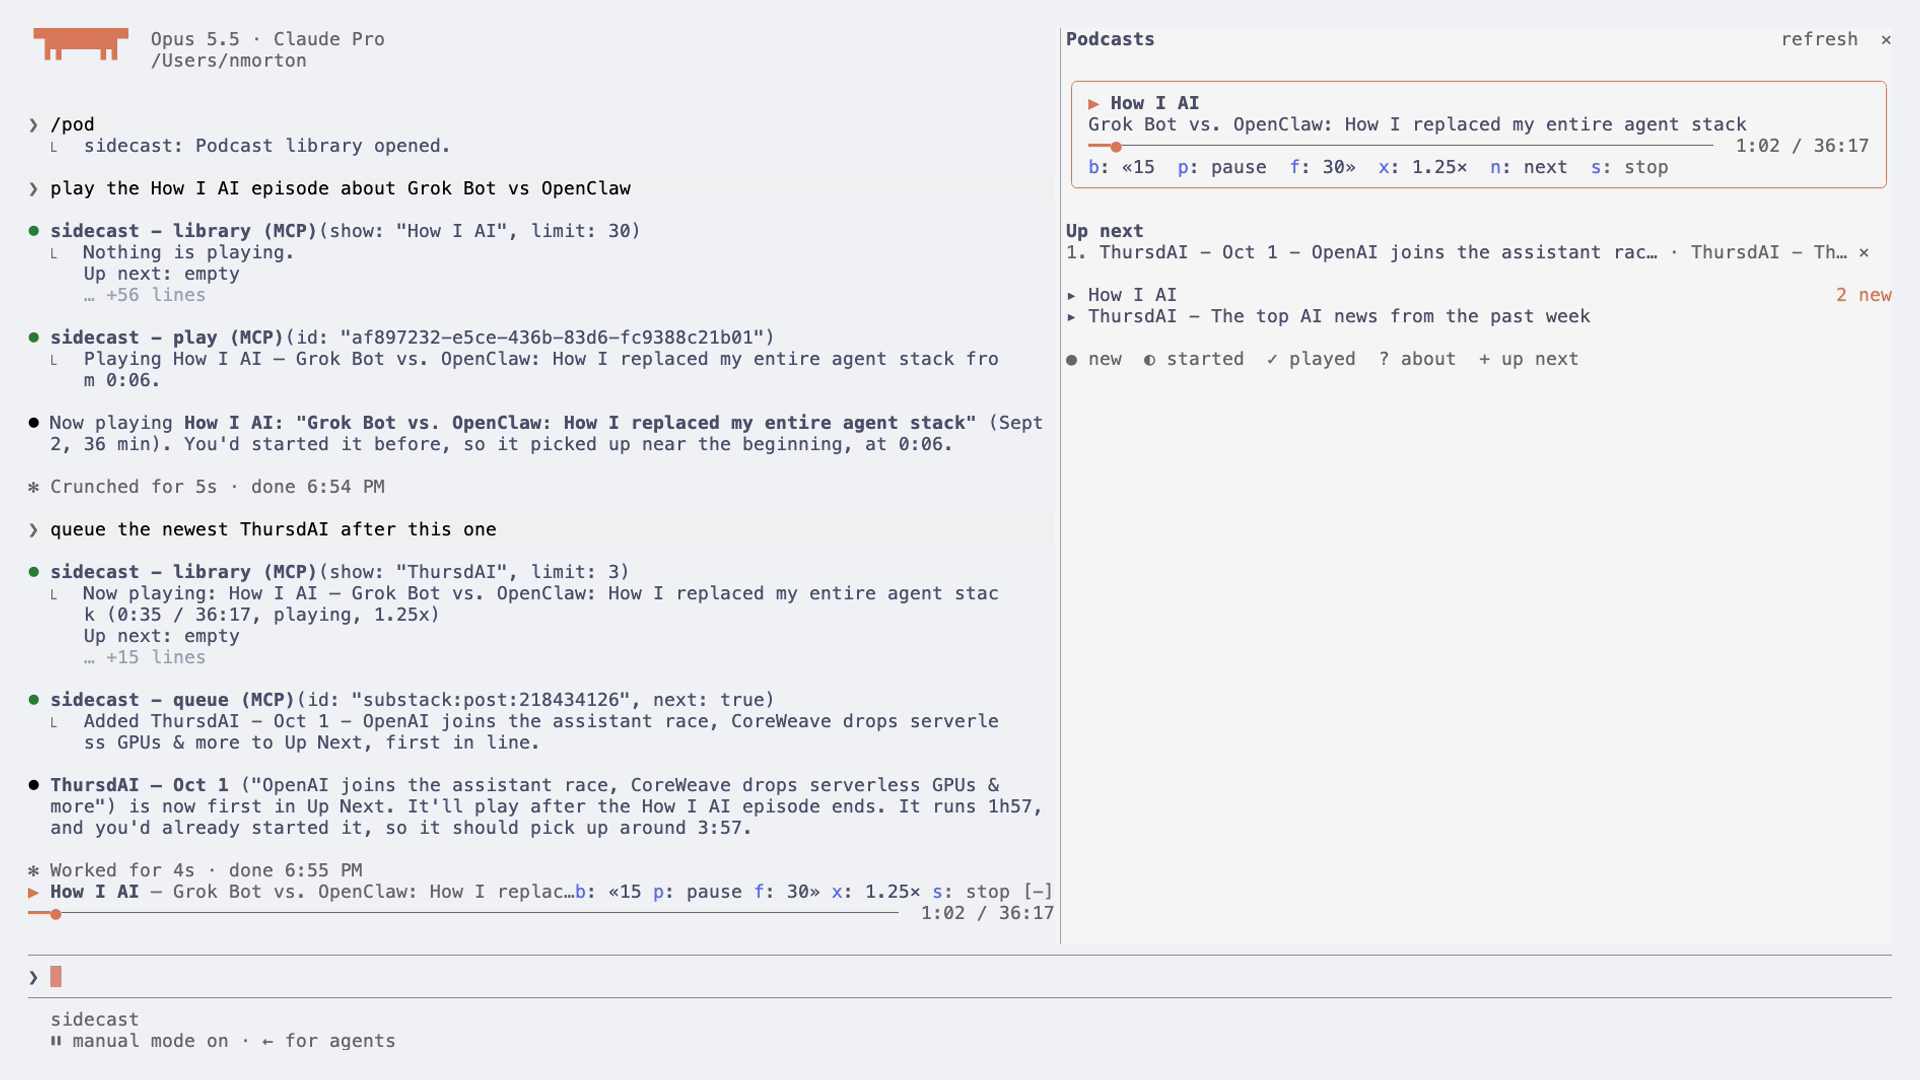
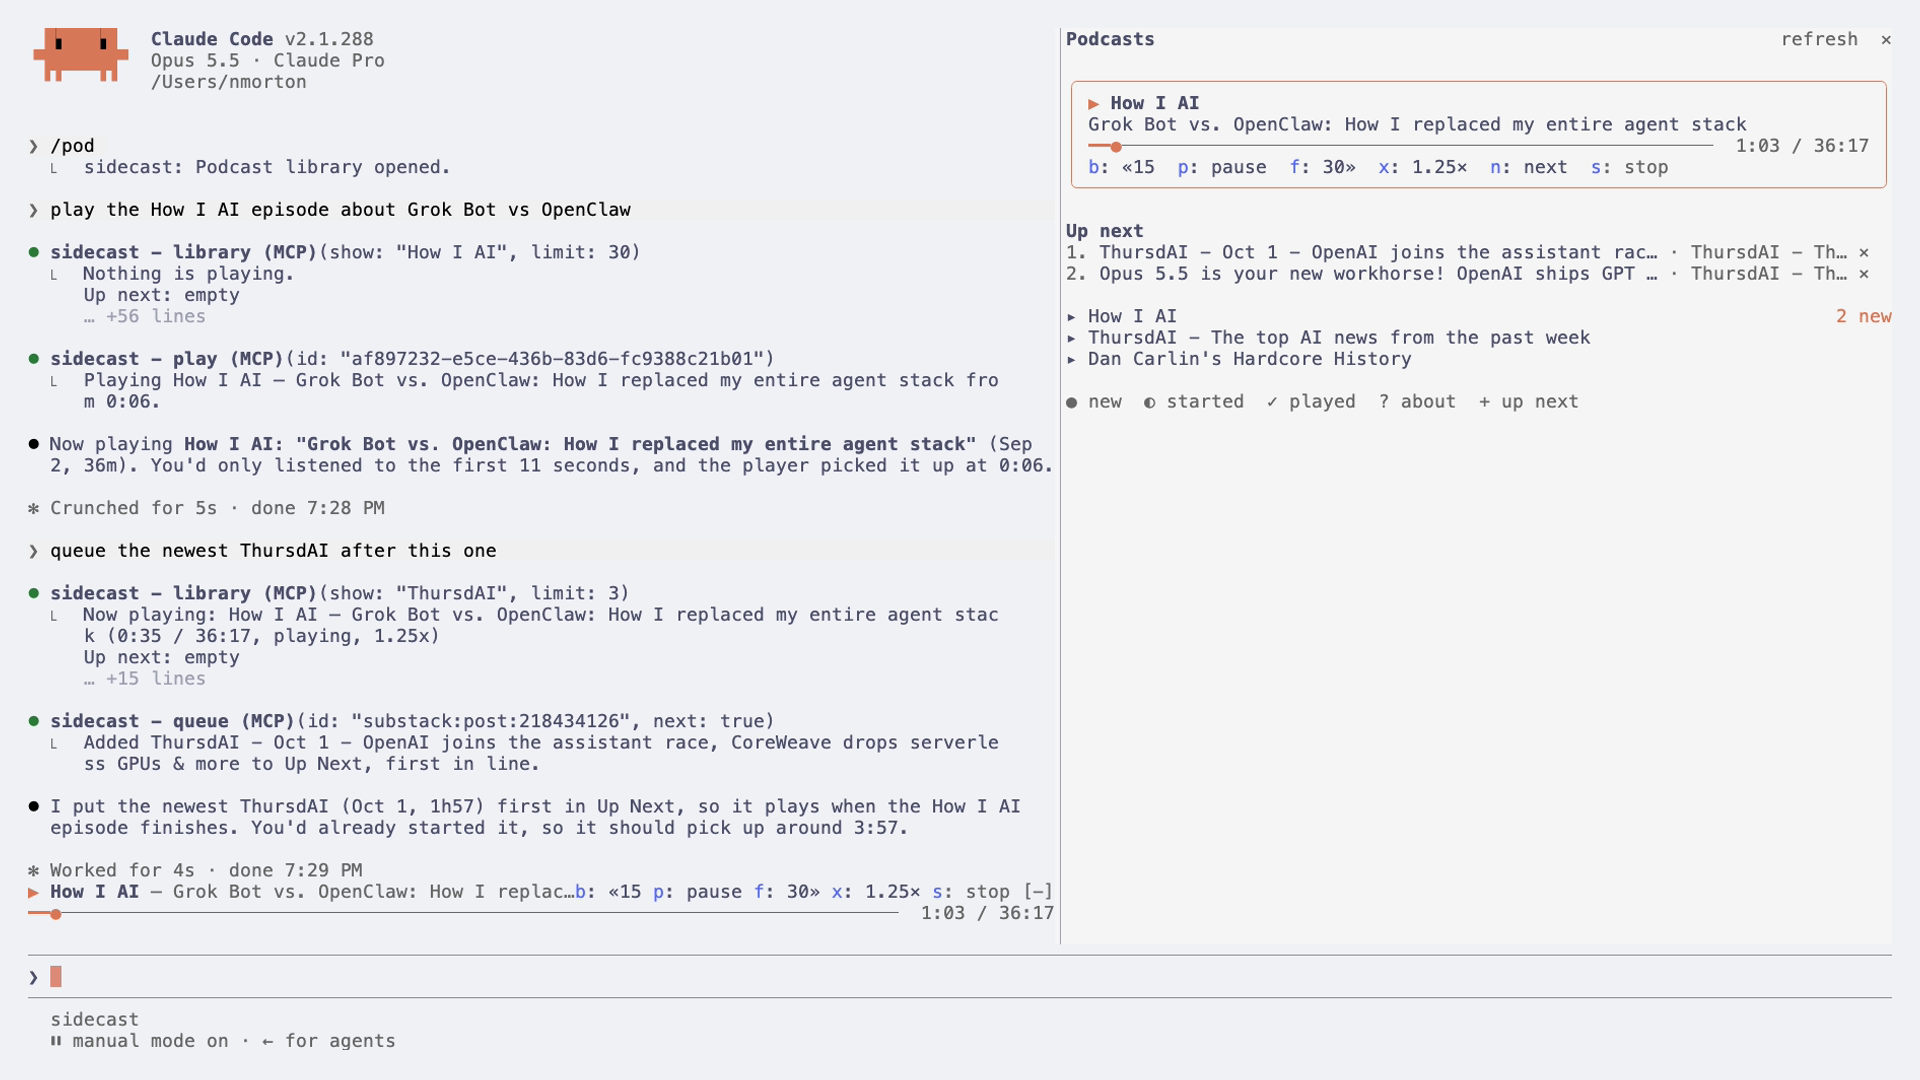
Add /sidecast as a second name for /pod; screenshots with three shows
Someone who installs "sidecast" types /sidecast first: it now runs the
same command as /pod. The README screenshots are re-shot with Dan
Carlin's Hardcore History in the library, the top one with the shows
collapsed.

diff --git a/hooks/register.tsx b/hooks/register.tsx
@@ -615,11 +615,82 @@ const TOOLS = [
   },
 ] as const
 
+/** /pod and /sidecast: the one command, its verb first. */
+const pod = async ($: EngineInterface, args: string) => {
+  await ensure($)
+  const [verb = '', ...rest] = args.trim().split(/\s+/)
+  const arg = rest.join(' ').trim()
+  const lib = await read($, library)
+
+  switch (verb.toLowerCase()) {
+    case '':
+    case 'open':
+    case 'library':
+      await $.ui.open({ id: PANE, title: 'Podcasts' })
+      return { text: lib.shows.length ? 'Podcast library opened.' : 'No subscriptions yet: /pod add <name or feed URL>' }
+    case 'add':
+    case 'search':
+    case 'subscribe': {
+      if (!arg) return { text: 'Usage: /pod add <name or feed URL>' }
+      return { text: await addOrSearch($, arg) }
+    }
+    case 'remove':
+    case 'unsubscribe': {
+      const show = findShow(lib, arg)
+      if (!show) return { text: `No subscription matches “${arg}”.` }
+      await unsubscribe($, show.feedUrl)
+      return { text: `Unsubscribed from ${show.title}.` }
+    }
+    case 'pause':
+    case 'play':
+    case 'resume':
+    case 'toggle':
+      return { text: (await togglePause($)) ? 'Toggled playback.' : 'Nothing is playing: pick an episode with /pod.' }
+    case 'skip':
+    case 'forward':
+      return { text: (await seek($, Number(arg) || 30)) ? 'Skipped ahead.' : 'Nothing is playing.' }
+    case 'back':
+    case 'rewind':
+      return { text: (await seek($, -(Number(arg) || 15))) ? 'Jumped back.' : 'Nothing is playing.' }
+    case 'speed': {
+      const speed = Number(arg.replace(/x$/i, ''))
+      if (!(speed >= 0.5 && speed <= 3)) return { text: 'Usage: /pod speed <0.5 to 3>' }
+      await setSpeed($, speed)
+      return { text: `Speed ${speed}×.` }
+    }
+    case 'stop': {
+      const was = await stop($)
+      return { text: was ? `Stopped ${was.title}; it resumes from ${clock(was.pos)}.` : 'Nothing is playing.' }
+    }
+    case 'next': {
+      const title = await playNext($)
+      return { text: title ? `Playing ${title}.` : 'Up Next is empty: add episodes with + in the pane.' }
+    }
+    case 'clear':
+      await saveQueue($, [])
+      return { text: 'Up Next is empty.' }
+    case 'queue': {
+      const lib2 = await read($, library)
+      const titles = (await read($, queue)).map(item => findEpisode(lib2, item.guid)?.ep.title).filter(Boolean)
+      return { text: titles.length ? `Up next:\n${titles.map((t, i) => `${i + 1}. ${t}`).join('\n')}` : 'Up Next is empty.' }
+    }
+    case 'refresh':
+      await refreshAll($, false)
+      return { text: (await read($, view)).note ?? 'Refreshed.' }
+    case 'help':
+      return { text: USAGE }
+    default:
+      // Anything else is a show to look for: /pod how i ai
+      return { text: await addOrSearch($, args.trim()) }
+  }
+}
+
 // --- hooks ------------------------------------------------------------------
 
 export const register: Register = on => {
   on('session.start', async ($, e, next) => {
     await $.command.register({ name: 'pod', description: 'Podcasts: /pod to browse, /pod help for the rest' })
+    await $.command.register({ name: 'sidecast', description: 'Podcasts (same as /pod): browse, play, queue' })
 
     await update($, loaded, () => false)
     await hydrate($)
@@ -674,74 +745,9 @@ export const register: Register = on => {
     return next(e)
   })
 
-  on('command.run', { command: 'pod' }, async ($, e) => {
-    await ensure($)
-    const [verb = '', ...rest] = e.args.trim().split(/\s+/)
-    const arg = rest.join(' ').trim()
-    const lib = await read($, library)
-
-    switch (verb.toLowerCase()) {
-      case '':
-      case 'open':
-      case 'library':
-        await $.ui.open({ id: PANE, title: 'Podcasts' })
-        return { text: lib.shows.length ? 'Podcast library opened.' : 'No subscriptions yet: /pod add <name or feed URL>' }
-      case 'add':
-      case 'search':
-      case 'subscribe': {
-        if (!arg) return { text: 'Usage: /pod add <name or feed URL>' }
-        return { text: await addOrSearch($, arg) }
-      }
-      case 'remove':
-      case 'unsubscribe': {
-        const show = findShow(lib, arg)
-        if (!show) return { text: `No subscription matches “${arg}”.` }
-        await unsubscribe($, show.feedUrl)
-        return { text: `Unsubscribed from ${show.title}.` }
-      }
-      case 'pause':
-      case 'play':
-      case 'resume':
-      case 'toggle':
-        return { text: (await togglePause($)) ? 'Toggled playback.' : 'Nothing is playing: pick an episode with /pod.' }
-      case 'skip':
-      case 'forward':
-        return { text: (await seek($, Number(arg) || 30)) ? 'Skipped ahead.' : 'Nothing is playing.' }
-      case 'back':
-      case 'rewind':
-        return { text: (await seek($, -(Number(arg) || 15))) ? 'Jumped back.' : 'Nothing is playing.' }
-      case 'speed': {
-        const speed = Number(arg.replace(/x$/i, ''))
-        if (!(speed >= 0.5 && speed <= 3)) return { text: 'Usage: /pod speed <0.5 to 3>' }
-        await setSpeed($, speed)
-        return { text: `Speed ${speed}×.` }
-      }
-      case 'stop': {
-        const was = await stop($)
-        return { text: was ? `Stopped ${was.title}; it resumes from ${clock(was.pos)}.` : 'Nothing is playing.' }
-      }
-      case 'next': {
-        const title = await playNext($)
-        return { text: title ? `Playing ${title}.` : 'Up Next is empty: add episodes with + in the pane.' }
-      }
-      case 'clear':
-        await saveQueue($, [])
-        return { text: 'Up Next is empty.' }
-      case 'queue': {
-        const lib2 = await read($, library)
-        const titles = (await read($, queue)).map(item => findEpisode(lib2, item.guid)?.ep.title).filter(Boolean)
-        return { text: titles.length ? `Up next:\n${titles.map((t, i) => `${i + 1}. ${t}`).join('\n')}` : 'Up Next is empty.' }
-      }
-      case 'refresh':
-        await refreshAll($, false)
-        return { text: (await read($, view)).note ?? 'Refreshed.' }
-      case 'help':
-        return { text: USAGE }
-      default:
-        // Anything else is a show to look for: /pod how i ai
-        return { text: await addOrSearch($, e.args.trim()) }
-    }
-  })
+  on('command.run', { command: 'pod' }, ($, e) => pod($, e.args))
+  // The plugin's own name, for whoever types it first after installing.
+  on('command.run', { command: 'sidecast' }, ($, e) => pod($, e.args))
 
   // Now playing, above the prompt. Whatever else draws there still draws below it.
   on('ui.render', { component: 'AbovePrompt' }, async ($, e, next) => {

diff --git a/tests/player.test.ts b/tests/player.test.ts
@@ -111,6 +111,15 @@ test('search, subscribe, browse and play an episode', async ($, on) => {
   expect((store.progress as Record<string, { pos: number }>)['ep-2']?.pos).toBe(125)
 })
 
+test('/sidecast is the same command as /pod', async ($, on) => {
+  fakes(on, [NIGHT])
+  await $.command.run(pod('night and day'))
+  const viaAlias = await $.command.run({ ...pod('queue'), command: 'sidecast' })
+  const viaPod = await $.command.run(pod('queue'))
+  expect(viaAlias.text).toBe(viaPod.text)
+  expect((await $.command.run({ ...pod(''), command: 'sidecast' })).text).toBe('Podcast library opened.')
+})
+
 test('/pod <name> with one match subscribes straight away', async ($, on) => {
   const { store } = fakes(on, [NIGHT])
   const result = await $.command.run(pod('night and day'))

diff --git a/README.md b/README.md
@@ -4,7 +4,7 @@ A podcast player that lives inside [Claude Code](https://claude.com/claude-code)
 browse it in a pane beside your work, and listen with a now-playing bar above the prompt. Or just ask
 Claude: "play the How I AI episode about Grok Bot", "queue the newest ThursdAI after this one".
 
-![sidecast playing an episode in Claude Code, with Up Next in the pane and the now-playing bar above the prompt](docs/images/sidecast-playing.png)
+![sidecast in Claude Code: Claude playing and queueing episodes, the library collapsed in the pane with Up Next, and the now-playing bar above the prompt](docs/images/sidecast-playing.png)
 
 ▶ **[Watch the 30-second demo](docs/sidecast-demo.mp4)**
 
@@ -78,6 +78,7 @@ To load it in every session, add it to `~/.claude/settings.json`:
 | Command | |
 |---|---|
 | `/pod` | open the library |
+| `/sidecast` | the same as `/pod`, by the plugin's name |
 | `/pod <name>` | find a show (anything that isn't a command below) |
 | `/pod add <name or URL>` | search, or subscribe to a feed URL |
 | `/pod remove <name>` | unsubscribe |
